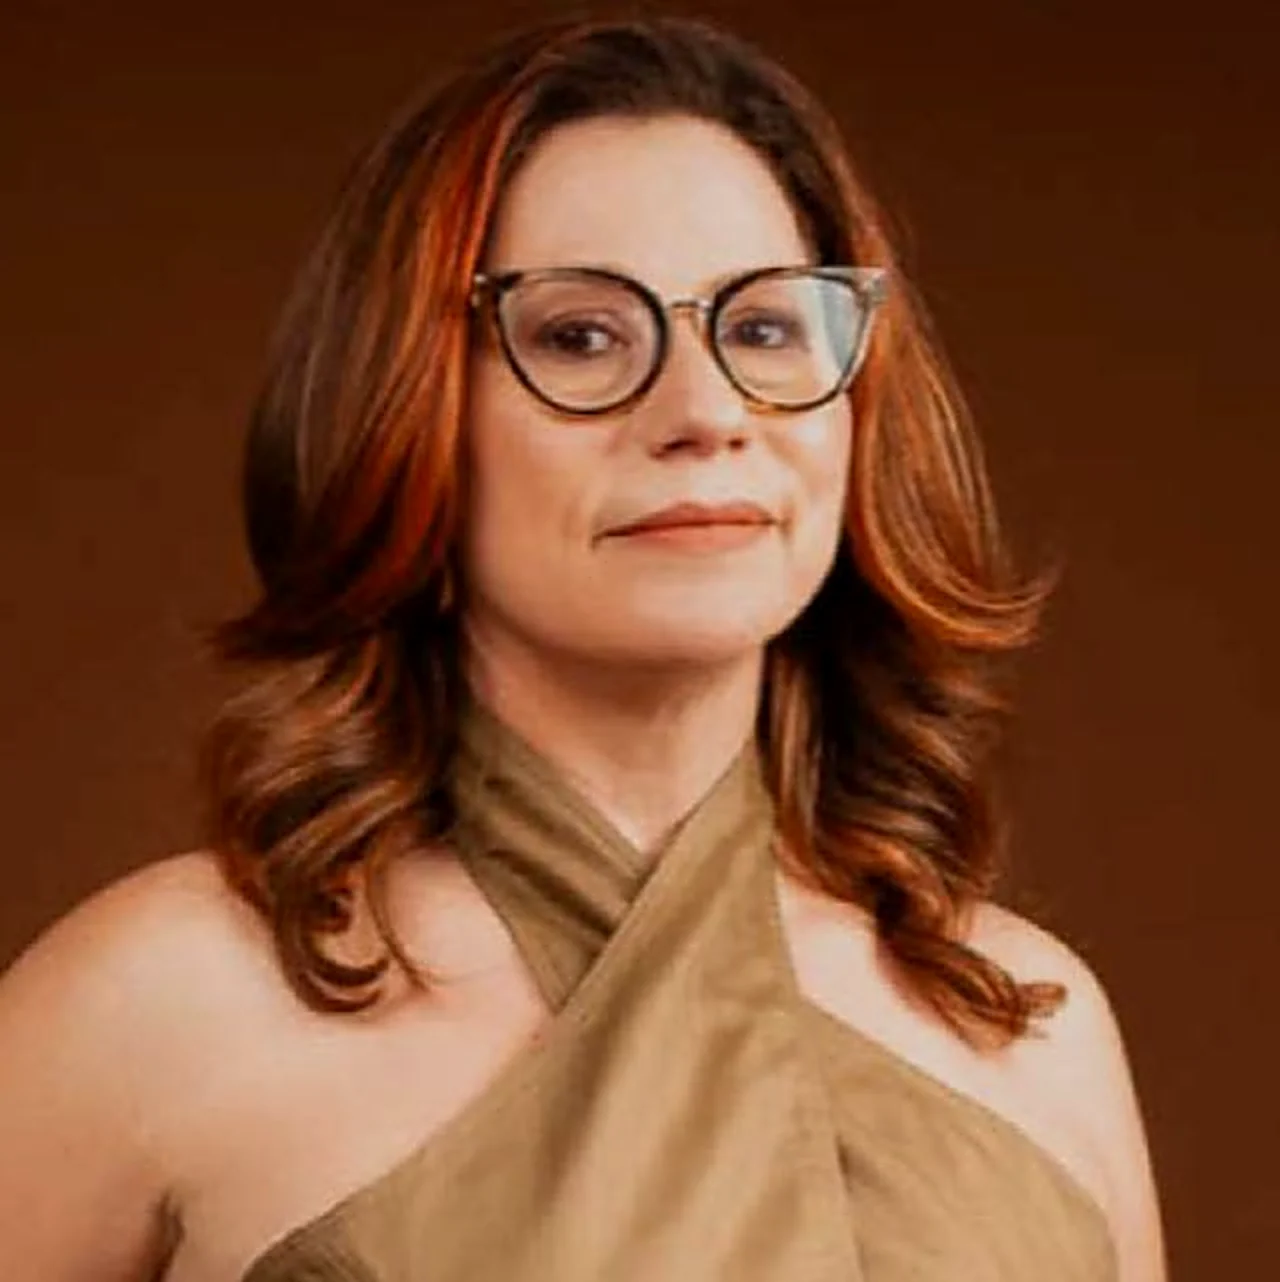
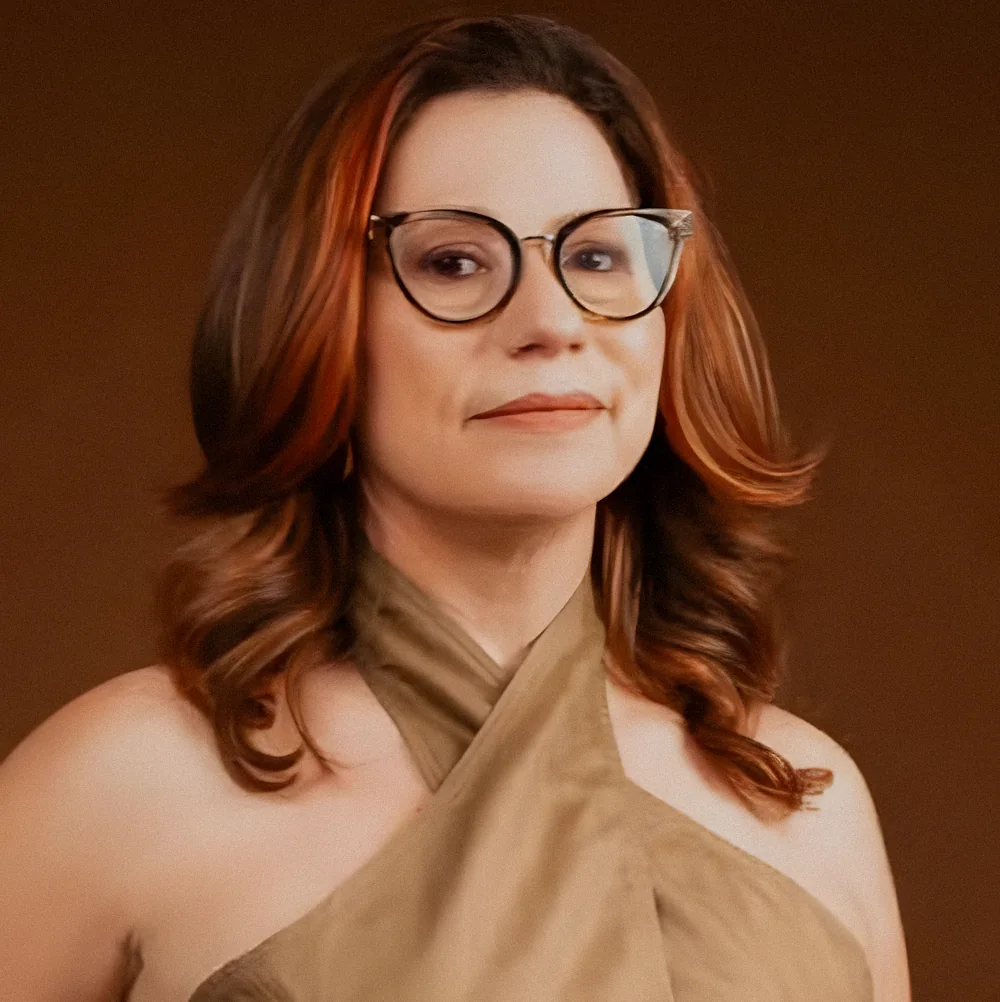
angela-lp: foto do topo com upscale IA (Real-ESRGAN) + formulário sem campo Mensagem

diff --git a/angela-lp/index.html b/angela-lp/index.html
@@ -271,7 +271,7 @@ footer{background:var(--navy);color:rgba(255,255,255,.75);padding:50px 0 24px;fo
   <div class="container hero-grid">
     <div class="hero-photo">
       <!-- IMAGEM 1: img/angela-hero.webp -->
-      <img class="slot-img" src="img/angela-hero.webp" alt="Ângela Rodrigues" width="1280" height="1282" fetchpriority="high">
+      <img class="slot-img" src="img/angela-hero.webp" alt="Ângela Rodrigues" width="1000" height="1002" fetchpriority="high">
       <div class="img-slot"><svg viewBox="0 0 24 24"><rect x="3" y="4" width="18" height="16" rx="2"/><circle cx="9" cy="10" r="2"/><path d="M21 16l-5-5-9 9"/></svg><b>Foto da Ângela</b><span>Retrato vertical 4:5 · fundo limpo</span></div>
     </div>
     <div class="hero-copy">
@@ -555,7 +555,6 @@ footer{background:var(--navy);color:rgba(255,255,255,.75);padding:50px 0 24px;fo
         </select>
       </div>
       <div class="field"><label for="vidas">Quantas pessoas no plano?</label><input id="vidas" type="number" min="1" placeholder="Ex.: 3"></div>
-      <div class="field"><label for="msg">Mensagem</label><textarea id="msg" rows="3"></textarea></div>
       <label class="terms"><input type="checkbox" required> Li e estou de acordo com a Política de Privacidade.</label>
       <button class="btn" type="submit">Enviar pelo WhatsApp</button>
     </form>
@@ -586,7 +585,7 @@ const waUrl = m => `https://wa.me/${WA}?text=${encodeURIComponent(m)}`;
 document.querySelectorAll('.wa-link').forEach(a=>{a.href='#contato';a.addEventListener('click',e=>{
   e.preventDefault();
   const f=document.getElementById('simForm');f.scrollIntoView({behavior:'smooth',block:'center'});
-  const m=document.getElementById('msg');if(a.dataset.msg==='ESTRATÉGIA'&&!m.value)m.value='ESTRATÉGIA';
+  if(a.dataset.msg==='ESTRATÉGIA')window.__estrategia=true;
   setTimeout(()=>document.getElementById('nome').focus({preventScroll:true}),600);
 })});
 document.getElementById('yr').textContent = new Date().getFullYear();
@@ -594,7 +593,7 @@ document.getElementById('yr').textContent = new Date().getFullYear();
 document.getElementById('simForm').addEventListener('submit', e=>{
   e.preventDefault();
   const v = id => document.getElementById(id).value.trim();
-  const msg = `Olá Ângela! Quero uma simulação.\n\nNome: ${v('nome')}\nTelefone: ${v('tel')}\nE-mail: ${v('email')||'-'}\nTipo: ${v('tipo')}\nVidas: ${v('vidas')||'-'}\nMensagem: ${v('msg')||'-'}`;
+  const msg = `Olá Ângela! Quero uma simulação.\n\nNome: ${v('nome')}\nTelefone: ${v('tel')}\nE-mail: ${v('email')||'-'}\nTipo: ${v('tipo')}\nVidas: ${v('vidas')||'-'}${window.__estrategia?'\n\nESTRATÉGIA':''}`;
   window.open(waUrl(msg), '_blank');
 });
 
